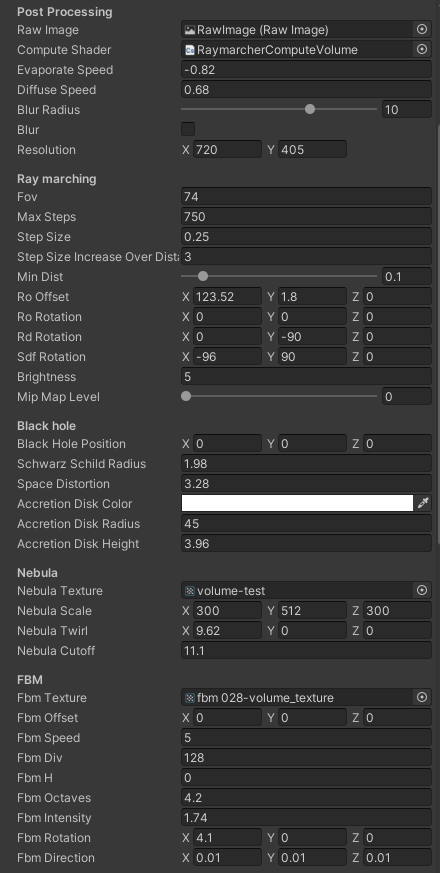
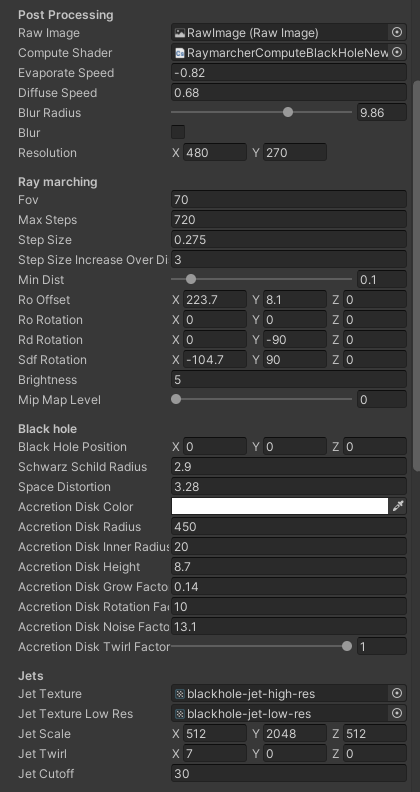
greatly improved performance and render result

diff --git a/BlackholeRaymarcher.cs b/BlackholeRaymarcher.cs
@@ -34,14 +34,21 @@ public class BlackholeRaymarcher : MonoBehaviour {
     [SerializeField] private float _spaceDistortion = 4.44f;
     [SerializeField] private Color _accretionDiskColor;
     [SerializeField] private float _accretionDiskRadius = 3.5f;
+    [SerializeField] private float _accretionDiskInnerRadius = 30.5f;
     [SerializeField] private float _accretionDiskHeight = 0.25f;
-    [Header("Nebula")]
-    [SerializeField] private Texture3D _nebulaTexture;
-    [SerializeField] private Vector3 _nebulaScale;
-    [SerializeField] private Vector3 _nebulaTwirl;
-    [SerializeField] private float _nebulaCutoff = 1f;
+    [SerializeField] private float _accretionDiskGrowFactor = 0.14f;
+    [SerializeField] private float _accretionDiskRotationFactor = 10f;
+    [SerializeField] private float _accretionDiskNoiseFactor = 20;
+    [SerializeField][Range(0f, 1f)] private float _accretionDiskTwirlFactor = .6f;
+    [Header("Jets")]
+    [SerializeField] private Texture3D _jetTexture;
+    [SerializeField] private Texture3D _jetTextureLowRes;
+    [SerializeField] private Vector3 _jetScale;
+    [SerializeField] private Vector3 _jetTwirl;
+    [SerializeField] private float _jetCutoff = 1f;
     [Header("FBM")]
     [SerializeField] private Texture3D _fbmTexture;
+    [SerializeField] private Texture3D _fbmTextureLowRes;
     [SerializeField] private Vector3 _fbmOffset;
     [SerializeField] private float _fbmSpeed = 2f;
     [SerializeField] private float _fbmDiv = 3.2f;
@@ -66,6 +73,7 @@ public class BlackholeRaymarcher : MonoBehaviour {
     [SerializeField] private float _lightAbsorb = 0.59f;
     [SerializeField] private float _darknessThreshhold = 0.5f;
     [SerializeField] private float _transmittance = 0.26f;
+    [SerializeField] private float _transmittanceThreshhold = 0.26f;
     [SerializeField] private int _lightSteps = 12;
     [SerializeField] private float _maxLightDist = 10f;
     [SerializeField] private float _maxAmbientDist = 10f;
@@ -93,21 +101,35 @@ public class BlackholeRaymarcher : MonoBehaviour {
         _rawImage.color = Color.white;
         _mainKernel = _computeShader.FindKernel("Main");
         _processKernel = _computeShader.FindKernel("ProcessTexture");
-        GenerateImage();
+        SetShaderValues();
     }
+
 
     int frameCount = 0;
     void Update() {
         frameCount++;
 
-        if (frameCount % 2 == 0)
-            GenerateImage();
+        if (frameCount % 2 == 0) {
+            SetShaderValues();
+            GenerateMainImage();
+        }
 
         if (frameCount > 1000) frameCount = 0;
     }
 
-    private void GenerateImage() {
-        if (Input.GetKeyDown(KeyCode.R) || _mainTexture == null || resolution.x != _mainTexture.width || resolution.y != _mainTexture.height) {
+
+
+    private void GenerateMainImage() {
+        _computeShader.Dispatch(_mainKernel, resolution.x / 16, resolution.y / 16, 1);
+        if (_blur) _computeShader.Dispatch(_processKernel, resolution.x / 8, resolution.y / 8, 1);
+    }
+
+    private void SetShaderValues() {
+        if (Input.GetKeyDown(KeyCode.R) ||
+         _mainTexture == null ||
+          resolution.x != _mainTexture.width ||
+          resolution.y != _mainTexture.height
+          ) {
             if (_mainTexture != null) Destroy(_mainTexture);
 
             _mainTexture = new RenderTexture(resolution.x, resolution.y, 24);
@@ -116,24 +138,22 @@ public class BlackholeRaymarcher : MonoBehaviour {
             _mainTexture.Create();
 
             _computeShader.SetTexture(_mainKernel, "starGradient", _starGradient);
-            _computeShader.SetTexture(_mainKernel, "nebulaTex", _nebulaTexture);
+            _computeShader.SetTexture(_mainKernel, "jetTex", _jetTexture);
+            _computeShader.SetTexture(_mainKernel, "jetTexLowRes", _jetTextureLowRes);
             _computeShader.SetTexture(_mainKernel, "fbmNoiseTex", _fbmTexture);
+            _computeShader.SetTexture(_mainKernel, "fbmNoiseTexLowRes", _fbmTextureLowRes);
             _computeShader.SetTexture(_mainKernel, "renderTex", _mainTexture);
+            _computeShader.SetTexture(_mainKernel, "gradientTex", _gradient);
+
             _computeShader.SetTexture(_processKernel, "renderTex", _mainTexture);
 
             _computeShader.SetInt("width", resolution.x);
             _computeShader.SetInt("height", resolution.y);
-            _rawImage.texture = _mainTexture;
 
+
+            _rawImage.texture = _mainTexture;
         }
 
-
-        _computeShader.SetTexture(_mainKernel, "starGradient", _starGradient);
-        _computeShader.SetTexture(_mainKernel, "nebulaTex", _nebulaTexture);
-        _computeShader.SetTexture(_mainKernel, "fbmNoiseTex", _fbmTexture);
-        _computeShader.SetTexture(_mainKernel, "starTex", _starTexture);
-
-        _computeShader.SetTexture(_mainKernel, "gradientTex", _gradient);
         _computeShader.SetVector("gradientOffset", _gradientOffset);
         _computeShader.SetVector("gradientTiling", _gradientTiling);
         _computeShader.SetFloat("time", Time.time);
@@ -154,7 +174,6 @@ public class BlackholeRaymarcher : MonoBehaviour {
         _computeShader.SetFloat("fov", _fov);
         _computeShader.SetFloat("mipMapLevel", _mipMapLevel);
 
-
         //lighting and color
         _computeShader.SetVector("lightDirection", _lightDir);  //Camera.main.transform.forward);
         _computeShader.SetVector("lightColor", new Vector4(_lightColor.r, _lightColor.g, _lightColor.b, 1f).normalized);
@@ -172,10 +191,10 @@ public class BlackholeRaymarcher : MonoBehaviour {
         _computeShader.SetFloat("time", Time.time);
         _computeShader.SetFloat("deltaTime", Time.deltaTime);
 
-        //nebula
-        _computeShader.SetVector("nebulaScale", _nebulaScale);
-        _computeShader.SetVector("nebulaTwirl", _nebulaTwirl);
-        _computeShader.SetFloat("nebulaCutoff", _nebulaCutoff);
+        //jet
+        _computeShader.SetVector("jetScale", _jetScale);
+        _computeShader.SetVector("jetTwirl", _jetTwirl);
+        _computeShader.SetFloat("jetCutoff", _jetCutoff);
 
         //fbm
         _computeShader.SetFloat("fbmDiv", _fbmDiv);
@@ -193,7 +212,12 @@ public class BlackholeRaymarcher : MonoBehaviour {
         _computeShader.SetFloat("schwarzSchildRadius", _schwarzSchildRadius);
         _computeShader.SetFloat("spaceDistortion", _spaceDistortion);
         _computeShader.SetFloat("accretionDiskRadius", _accretionDiskRadius);
+        _computeShader.SetFloat("accretionDiskTwirlFactor", _accretionDiskTwirlFactor);
+        _computeShader.SetFloat("accretionDiskInnerRadius", _accretionDiskInnerRadius);
         _computeShader.SetFloat("accretionDiskHeight", _accretionDiskHeight);
+        _computeShader.SetFloat("accretionDiskGrowFactor", _accretionDiskGrowFactor);
+        _computeShader.SetFloat("accretionDiskRotationFactor", _accretionDiskRotationFactor);
+        _computeShader.SetFloat("accretionDiskNoiseFactor", _accretionDiskNoiseFactor);
 
         //light
         _computeShader.SetFloat("maxAmbientDist", _maxAmbientDist);
@@ -202,6 +226,7 @@ public class BlackholeRaymarcher : MonoBehaviour {
         _computeShader.SetFloat("darknessThreshhold", _darknessThreshhold);
         _computeShader.SetFloat("lightAbsorb", _lightAbsorb);
         _computeShader.SetFloat("transmittance", _transmittance);
+        _computeShader.SetFloat("transmittanceThreshhold", _transmittanceThreshhold);
         _computeShader.SetFloat("lightCenterBrightness", _lightCenterBrightness);
         _computeShader.SetInt("lightSteps", _lightSteps);
         _computeShader.SetFloat("lightStepSize", _lightStepsSize);
@@ -225,8 +250,6 @@ public class BlackholeRaymarcher : MonoBehaviour {
         _computeShader.SetFloat("centerIntensity", _centerIntensity);
         _computeShader.SetFloat("centerFallOff", _centerFallOff);
 
-        _computeShader.Dispatch(_mainKernel, resolution.x / 16, resolution.y / 16, 1);
-        if (_blur) _computeShader.Dispatch(_processKernel, resolution.x / 8, resolution.y / 8, 1);
 
     }
 }
